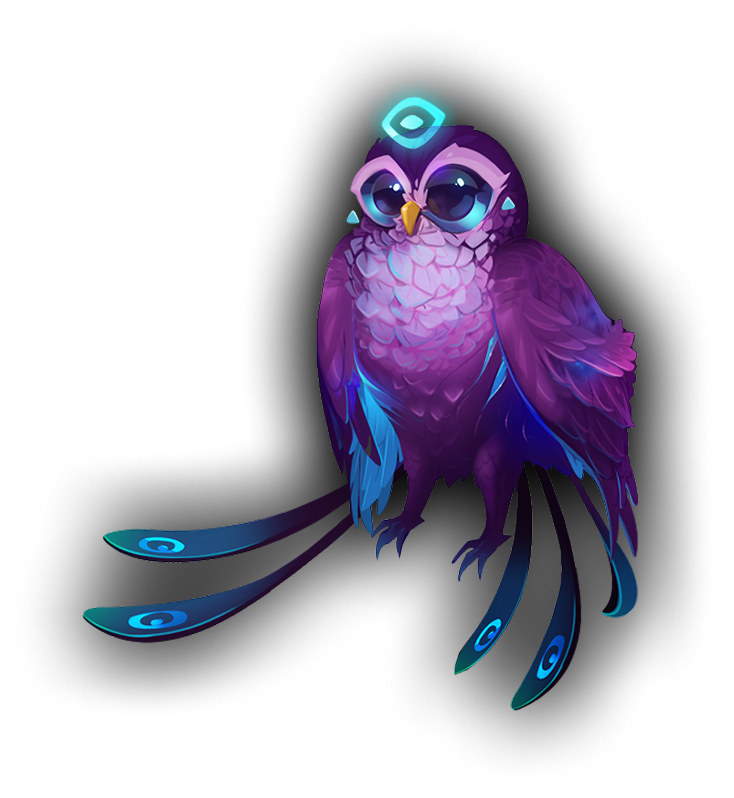
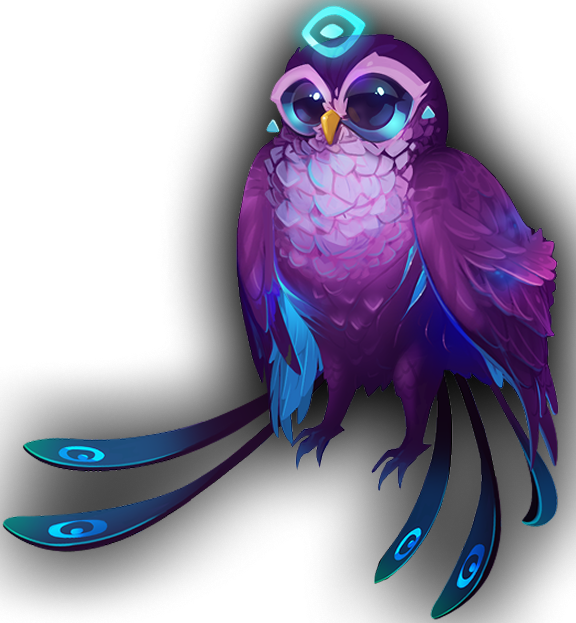
Updates to the Games page: mobile responsive, image resizing, container sizing, etc.

diff --git a/src/app/games/page.tsx b/src/app/games/page.tsx
@@ -13,7 +13,7 @@ import { SocialIcon, type SocialPlatform } from '@/components/SocialIcon';
 import { Text } from '@/components/Text';
 import innerverseBackground from '../../../public/games/innerverse-background.png';
 import innerverseLogo from '../../../public/games/innerverse-logo.png';
-import innerverseOwl from '../../../public/games/innerverse-owl.png';
+import innerverseOwl from '../../../public/games/innerverse-owl-logo.png';
 
 const RELEASE_DATE = 'October 2, 2026';
 const RELEASE_DATE_SHORT = '10/02/26';
@@ -63,7 +63,7 @@ export default function GamesPage() {
     <>
       <GradientBackdrop
         gradient={false}
-        className='h-dvh min-h-dvh overflow-hidden'>
+        className='min-h-dvh md:h-dvh md:overflow-hidden'>
         <Image
           src={innerverseBackground}
           alt=''
@@ -77,7 +77,7 @@ export default function GamesPage() {
           className='pointer-events-none absolute inset-0 bg-(image:--gradient-fade)'
         />
 
-        <div className='relative flex h-dvh min-h-dvh flex-col overflow-y-auto md:overflow-hidden'>
+        <div className='relative flex min-h-dvh flex-col md:h-dvh md:overflow-hidden'>
           <Container className='shrink-0'>
             <Navbar
               start={
@@ -108,23 +108,23 @@ export default function GamesPage() {
             <Container className='flex w-full flex-1 flex-col justify-center py-6 md:min-h-0 md:py-4'>
               <div className='grid flex-1 grid-cols-1 items-center gap-10 md:min-h-0 md:grid-cols-2 md:gap-8 lg:gap-14'>
                 <div
-                  className='relative order-2 flex max-h-[42vh] w-full flex-col overflow-hidden rounded-lg border-l-2 border-accent-primary sm:max-h-[50vh] md:order-1 md:max-h-[42vh] lg:max-h-[50vh]'
+                  className='relative order-2 flex w-full flex-col rounded-lg border-l-2 border-accent-primary md:order-1 md:max-h-[70vh] md:overflow-hidden lg:max-h-[70vh]'
                   style={{
                     background:
                       'linear-gradient(270deg, rgba(1, 4, 15, 0) 0%, #01040F 100%)',
                     backdropFilter: 'blur(4.55px)',
                   }}>
                   <span
-                    className='absolute top-4 right-4 z-10 inline-flex items-center py-2 pr-5 pl-4 text-caption font-bold text-text-inverse shadow-elevated'
+                    className='absolute top-1 right-4 z-10 flex h-[25px] w-[127px] items-center justify-center px-2 text-center text-[11px] leading-none font-bold text-text-inverse shadow-elevated'
                     style={{
-                      clipPath:
-                        'polygon(0% 0%, 100% 0%, 100% 100%, 12% 100%, 0% 62%)',
-                      backgroundColor: 'var(--color-accent-secondary)',
+                      backgroundImage: 'url(/coming-soon-box.svg)',
+                      backgroundSize: '100% 100%',
+                      backgroundRepeat: 'no-repeat',
                     }}>
                     Coming Soon!
                   </span>
 
-                  <div className='flex min-h-0 flex-1 flex-col items-start gap-4 p-6 pt-16 sm:p-8 sm:pt-20'>
+                  <div className='flex flex-1 flex-col items-start gap-4 p-6 pt-16 sm:p-8 sm:pt-20 md:min-h-0'>
                     <Heading size='xl'>Innerverse</Heading>
 
                     <ScrollArea className='pr-1'>
@@ -175,10 +175,7 @@ export default function GamesPage() {
                     </ScrollArea>
 
                     <Text size='base' weight='regular'>
-                      Coming soon on{' '}
-                      <span className='font-semibold text-accent-primary'>
-                        {RELEASE_DATE}
-                      </span>
+                      Coming soon to
                     </Text>
 
                     <div className='flex flex-wrap items-center gap-4'>
@@ -204,7 +201,7 @@ export default function GamesPage() {
                   </div>
                 </div>
 
-                <div className='relative order-1 flex h-[42vh] w-full items-center justify-center sm:h-[50vh] md:order-2 md:h-[42vh] lg:h-[50vh]'>
+                <div className='relative order-1 flex h-[42vh] w-full items-center justify-center sm:h-[50vh] md:order-2 md:h-[70vh] lg:h-[70vh]'>
                   <div className='relative h-full w-full'>
                     <Image
                       src={innerverseOwl}
@@ -214,17 +211,21 @@ export default function GamesPage() {
                       sizes='(min-width: 768px) 40vw, 90vw'
                       className='object-contain object-center drop-shadow-(--shadow-elevated)'
                     />
-                    <div className='absolute inset-x-0 bottom-[6%] flex flex-col items-center px-4'>
+                    <div className='absolute inset-x-0 bottom-[2%] flex flex-col items-center px-4 md:bottom-[6%] md:translate-x-[8%]'>
                       <Image
                         src={innerverseLogo}
                         alt='Innerverse'
-                        className='w-full max-w-lg'
+                        className='w-[80%] max-w-[240px] md:w-[130%] md:max-w-4xl'
                       />
-                      <span className='mt-1 font-sans text-heading-sm font-bold text-accent-primary drop-shadow-(--shadow-glow-accent)'>
-                        EARLY ACCESS
-                      </span>
-                      <span className='mt-1 font-sans text-heading-sm font-bold text-accent-primary drop-shadow-(--shadow-glow-accent)'>
-                        COMING SOON
+                      <span
+                        className='mt-1 text-center text-[26px] leading-[1.15] font-bold text-white uppercase md:text-[64px] md:leading-[89px]'
+                        style={{
+                          fontFamily: 'var(--font-truculenta)',
+                          WebkitTextStroke: '0.252558px #FFFFFF',
+                          textShadow:
+                            '0px 0px 14.7326px #FCC26B, 0px 0px 4.71442px #FCC26B',
+                        }}>
+                        Early Access
                       </span>
                     </div>
                   </div>
@@ -232,8 +233,8 @@ export default function GamesPage() {
               </div>
             </Container>
 
-            <div className='flex shrink-0 justify-center pb-6 md:pb-4'>
-              <LegalNav links={LEGAL_NAV_LINKS} />
+            <div className='mx-auto flex w-full shrink-0 justify-center pb-6 md:pb-4 lg:max-w-225'>
+              <LegalNav links={LEGAL_NAV_LINKS} className='lg:w-full' />
             </div>
           </div>
         </div>
@@ -242,7 +243,9 @@ export default function GamesPage() {
       <Footer
         links={FOOTER_LINKS}
         socialLinks={FOOTER_SOCIAL_LINKS}
-        address={'225 N. French Avenue, Suite C\nSanford, FL 32771\nUnited States'}
+        address={
+          '225 N. French Avenue, Suite C\nSanford, FL 32771\nUnited States'
+        }
       />
     </>
   );

diff --git a/src/components/ScrollArea.tsx b/src/components/ScrollArea.tsx
@@ -50,18 +50,18 @@ export function ScrollArea({ children, className }: ScrollAreaProps) {
   }, [update]);
 
   return (
-    <div className='flex min-h-0 flex-1 items-stretch gap-4'>
+    <div className='flex flex-1 items-stretch gap-4 md:min-h-0'>
       <div
         ref={scrollRef}
         onScroll={update}
         className={cn(
-          'min-h-0 flex-1 overflow-y-auto [scrollbar-width:none] [&::-webkit-scrollbar]:hidden',
+          'flex-1 md:min-h-0 md:overflow-y-auto [scrollbar-width:none] [&::-webkit-scrollbar]:hidden',
           className,
         )}>
         {children}
       </div>
       {thumb && (
-        <div className='relative w-2 shrink-0 rounded-full border border-white/70 bg-black/70'>
+        <div className='relative hidden w-2 shrink-0 rounded-full border border-white/70 bg-black/70 md:block'>
           <div
             className='absolute inset-x-0 rounded-full bg-white'
             style={{ height: thumb.height, top: thumb.top }}

diff --git a/src/app/layout.tsx b/src/app/layout.tsx
@@ -1,10 +1,16 @@
 import type { Metadata } from "next";
-import { Afacad_Flux } from "next/font/google";
+import { Afacad_Flux, Truculenta } from "next/font/google";
 import "./globals.css";
 
 const afacadFlux = Afacad_Flux({
   variable: "--font-afacad-flux",
   subsets: ["latin"],
+});
+
+const truculenta = Truculenta({
+  variable: "--font-truculenta",
+  subsets: ["latin"],
+  weight: ["700"],
 });
 
 export const metadata: Metadata = {
@@ -15,7 +21,10 @@ export const metadata: Metadata = {
 
 export default function RootLayout({ children }: LayoutProps<"/">) {
   return (
-    <html lang="en" className={`${afacadFlux.variable} h-full antialiased`}>
+    <html
+      lang="en"
+      className={`${afacadFlux.variable} ${truculenta.variable} h-full antialiased`}
+    >
       <body className="min-h-full flex flex-col">{children}</body>
     </html>
   );

diff --git a/src/app/terms-of-service/privacy-policy.md b/src/app/terms-of-service/privacy-policy.md
@@ -1,0 +1,163 @@
+# Privacy Policy for INNERVERSE™ 
+
+**Privacy Policy**
+Last Updated: Aug 19, 2026
+
+**Vibrainiac Games** (“Company”, “we”, “our”, or “us”) is committed to protecting the privacy and safety of our users. This Privacy Policy explains how we collect, use, disclose, and safeguard information when you use the **Innerverse** application, website, and related services (the “Service”).
+
+Because the Service includes content related to emotional wellness and mental well-being, we apply additional safeguards designed to protect user privacy and prevent misuse of sensitive information.
+
+By using the Service, you agree to this Privacy Policy.
+
+---
+
+## 1. Purpose of the Service
+INNERVERSE™(“Service”)  is an entertainment and supportive wellness experience designed to provide users with interactive, game-based activities, educational content, and guided exercises intended to support general well-being and personal engagement.
+
+The Service is provided for informational, entertainment, and general wellness purposes only. **It is not a medical or mental health service and is not intended to provide medical advice, diagnosis, treatment, therapy, counseling, or prescriptions.**
+
+The Service does not replace professional healthcare or individualized guidance from a qualified healthcare provider. Users should consult an appropriate healthcare professional regarding any medical or mental health concerns.
+
+---
+
+2. Information We Collect
+We collect information in the following categories.
+A. Account Information
+When users create an account, we may collect:
+Username
+Email address
+Login credentials
+Age range
+This information allows us to provide account access and manage the Service.
+
+---
+
+B. Device and Technical Information
+We may automatically collect:
+Device type
+Operating system
+App version
+IP address
+Device identifiers
+Session timestamps
+This information helps us maintain performance, security, and functionality.
+
+---
+
+C. Usage and Gameplay Data
+We collect data about how users interact with the Service, such as:
+Gameplay progress
+Session length
+Feature interactions
+Achievements or activity completion
+This information helps improve the user experience.
+
+---
+
+D. Voluntary Emotional or Reflection Inputs
+Some features may allow users to voluntarily provide reflections or emotional check-ins (for example, mood selections).
+This information:
+Is optional
+Is stored securely
+Is used only to provide app functionality and personalization
+We do not use this information to diagnose mental health conditions or provide medical services.
+
+---
+
+3. Sensitive Information Safeguards
+Because emotional reflection data may be sensitive, we implement additional protections:
+Encryption in transit and at rest
+Restricted internal access controls
+Data minimization practices
+Separation of identifying data from reflection content where possible
+We do not sell or share emotional reflection data for advertising purposes.
+
+---
+
+4. How We Use Information
+We use collected information to:
+Provide and maintain the Service
+Personalize gameplay experiences
+Improve features and functionality
+Respond to user support requests
+Monitor security and prevent fraud
+Conduct analytics to improve the Service
+We may also use aggregated or anonymized data to improve our products.
+
+---
+
+5. Crisis Situations
+The Service is not designed to respond to emergencies or crisis situations.
+If a user is experiencing a mental health emergency, they should contact:
+Emergency services in their country
+A licensed mental health professional
+A crisis support hotline
+In the United States, the 988 Suicide & Crisis Lifeline is available.
+
+---
+
+6. Sharing of Information
+We may share information with trusted third-party providers that support our operations, such as:
+Cloud hosting providers
+Analytics services
+Payment processors
+Customer support platforms
+Third Party Sponsor or Benefit Provider
+Third-Party Sponsors and Benefit Providers: If you access Innerverse through a third-party sponsor, employer, school or benefits provider, we may share limited information with that sponsor to verify eligibility, activate your access, administer the partnership, and report engagement metrics as required under our agreement with that sponsor. This may include account status, activation status, subscription tier, and aggregated or de-identified usage data. Third-party sponsors are independent controllers of any information they receive and process such information in accordance with their own privacy policies.
+
+These providers are contractually required to safeguard user data.
+We do not sell personal information.
+
+7. Children's Privacy
+If you are under 13 years old (or the minimum age required in your jurisdiction), you may not use the Service unless explicitly permitted under applicable child data protection laws and with verified parental consent.
+
+
+8. User Rights
+Depending on your location, you may have rights to:
+Access personal data
+Correct inaccurate data
+Request deletion of your data
+Request a copy of your information
+Restrict certain processing activities
+Requests may be submitted using the contact information below.
+
+9. Data Retention
+We retain information only as long as necessary to:
+Provide the Service
+Comply with legal obligations
+Resolve disputes
+Enforce agreements
+Users may request deletion of their accounts at any time.
+
+10. Security
+We implement reasonable technical and organizational measures designed to protect personal information.
+However, no system can guarantee complete security.
+
+11. NO MEDICAL OR CLINICAL ADVICE
+IMPORTANT DISCLAIMER:
+INNERVERSE™ is not a doctor, therapist, or other licensed healthcare professional, and it is not a substitute for professional medical or mental health care.
+INNERVERSE™ is designed as an entertainment and supportive wellness experience. It may include educational content, game-based activities, and guided exercises intended to support general well-being. These features are not intended to diagnose, treat, cure, or prevent any medical or mental health condition, and they should not be considered medical advice, therapy, counseling, or a prescription for treatment.
+Your use of this app does not create a doctor-patient, therapist-client, or other healthcare provider relationship between you and the app or its creators.
+Individual experiences and results may vary. Information, exercises, or activities provided through the app may not be appropriate for everyone and should not be used as a substitute for individualized advice from a qualified healthcare professional.
+By using this app, you acknowledge that it is intended for entertainment and general wellness support and is not a replacement for professional healthcare.
+The Service does NOT provide:
+Medical advice
+Mental health diagnosis
+Therapy
+Clinical treatment
+Crisis intervention
+The Service is not a substitute for professional medical or mental health care.
+Always seek advice from a qualified healthcare provider regarding any mental health or medical condition.
+If you have concerns about your physical or mental health, symptoms, or well-being, please consult a qualified doctor, therapist, counselor, or other licensed healthcare professional.
+If you believe you are experiencing a medical or mental health emergency or may be at risk of harming yourself or someone else, stop using the app and seek immediate assistance from appropriate emergency or crisis services.
+12. International Users
+If you access the Service from outside the country where our servers are located, your information may be transferred across borders.
+We take steps to ensure appropriate safeguards are in place.
+
+13. Changes to This Privacy Policy
+We may update this Privacy Policy periodically.
+Users will be notified of material changes through the Service or through other reasonable means.
+
+14. Contact Information
+If you have questions about this Privacy Policy or your data rights, contact:
+Vibrainiac Games | 225 N. French Avenue, Suite CSanford, FL 32771 | info@vibrainiac.com | [Support Contact]
